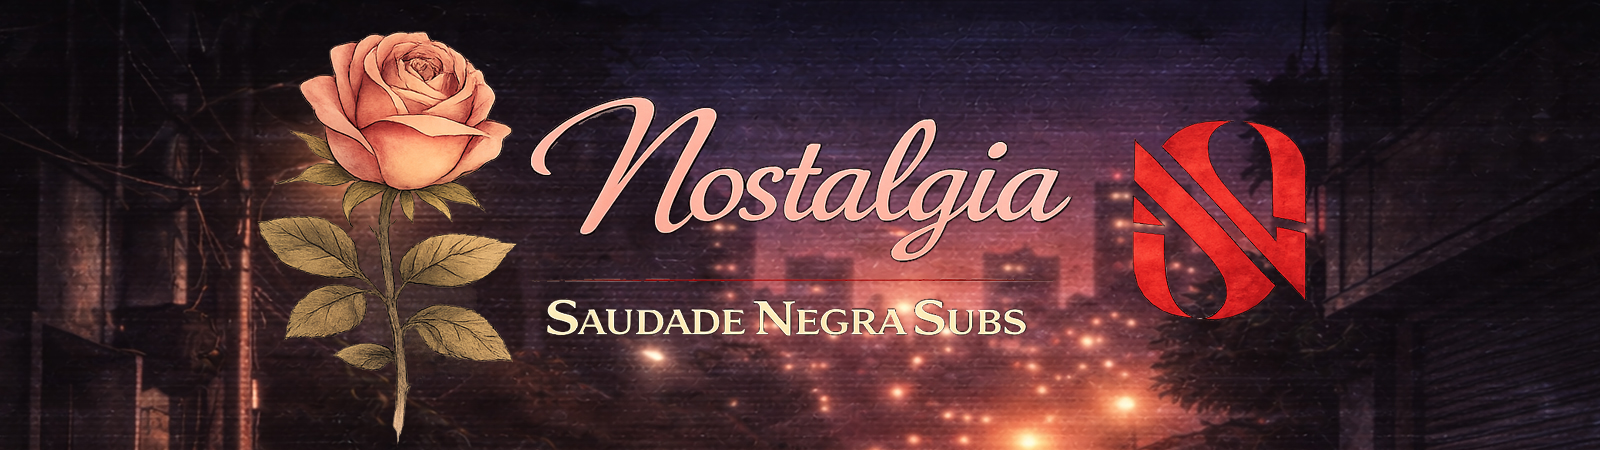
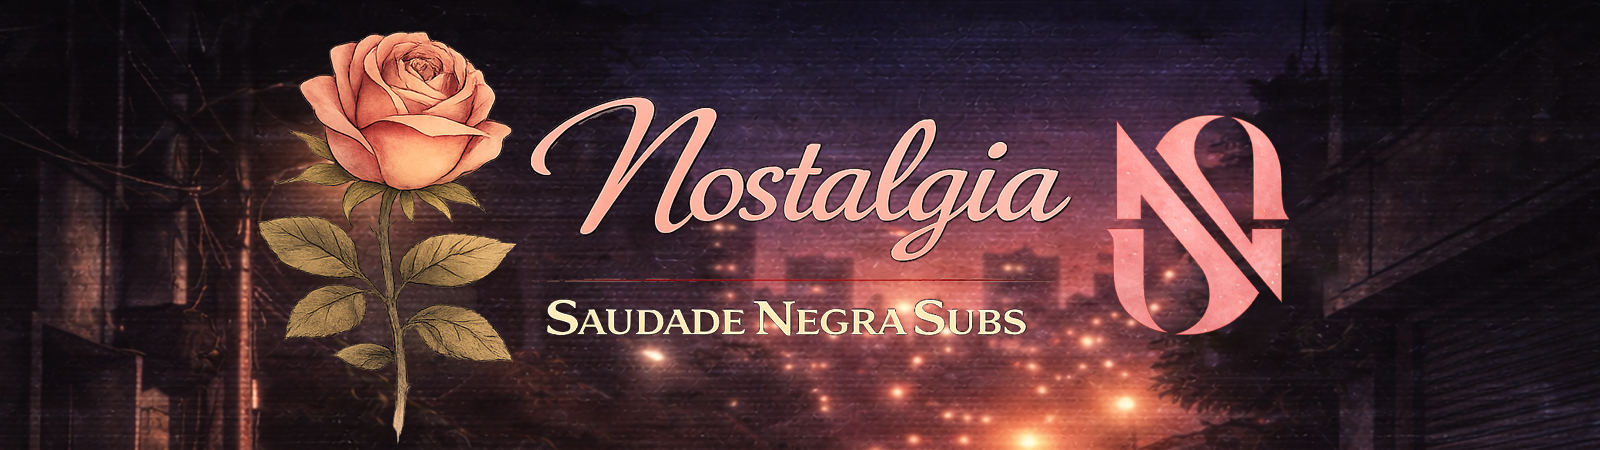
Add files via upload

Changed region(s): [[0.6562, 0.2489, 0.8438, 0.7467], [0.75, 0.7778, 0.7812, 0.8089]]

diff --git a/index.html b/index.html
@@ -3,7 +3,7 @@
 <head>
   <meta charset="UTF-8" />
   <meta name="viewport" content="width=device-width, initial-scale=1.0" />
-  <title>Saudade Negra Subs</title>
+  <title>Nostalgia - SNS</title>
   <link rel="icon" type="image/png" href="assetsN/favicon.png" />
 
   <!-- Cloudflare Web Analytics -->
@@ -46,30 +46,14 @@
       background-color: var(--bg);
     }
 
-	body::after {
-	  content: "";
-	  position: fixed;
-	  inset: 0;
-	  background-image: url('https://grainy-gradients.vercel.app/noise.svg');
-	  opacity: 0.12;
-	  pointer-events: none;
-	  z-index: 1;
-	}
-	
-	body::before {
-	  content: "";
-	  position: fixed;
-	  inset: 0;
-	  background: repeating-linear-gradient(
-	    to bottom,
-	    rgba(255,255,255,0.04),
-	    rgba(255,255,255,0.04) 1px,
-	    transparent 1px,
-	    transparent 3px
-	  );
-	  pointer-events: none;
-	  z-index: 1;
-	}
+    body::after {
+      content: "";
+      position: fixed;
+      inset: 0;
+      background: rgba(0, 0, 0, 0.14);
+      pointer-events: none;
+      z-index: 0;
+    }
 
     .page {
       position: relative;
@@ -109,6 +93,62 @@
 
     .banner-content {
       padding: 18px 22px 24px;
+    }
+	.about-banner {
+	  position: relative;
+	}
+	.about-banner:hover .banner-about {
+	  opacity: 1;
+    }
+	
+	.about-banner:hover .banner-about-scroll {
+      animation: scrollAbout 12s linear forwards;
+    }
+
+    @keyframes scrollAbout {
+      from {
+        transform: translateY(0);
+      }
+      to {
+        transform: translateY(0px);
+      }
+    }
+	
+    .banner-about {
+      position: absolute;
+      inset: 0;
+      overflow: hidden;
+      padding: 0
+      background: linear-gradient(180deg, rgba(0, 0, 0, 0.10), rgba(0, 0, 0, 0.92));
+      opacity: 0;
+      transition: opacity 0.25s ease;
+    }
+
+    .about-banner:hover .banner-about {
+      opacity: 1;
+    }
+
+    .banner-about-scroll {
+      position: absolute;
+	  top: 50%;
+      left: 18px;
+      right: 6px;
+	  transform: translateY(0);
+    }
+
+    .banner-about-text {
+      margin: 0 0 10px;
+      color: #ececec;
+      line-height: 1.55;
+      font-size: 0.95rem;
+      width: 100%;
+      max-width: none;
+      text-align: justify;
+      text-justify: inter-word;
+    }
+
+    .banner-about-text:last-child {
+      margin-bottom: 0;
     }
 
     .title {
@@ -379,6 +419,75 @@
     .green { color: var(--green); }
     .yellow { color: var(--yellow); }
     .red { color: var(--red); }
+	
+	.nostalgia-cta-logo {
+	  display: block;
+	  max-height: 72px;
+	  width: auto;
+	  margin: 12px auto;
+	}
+	
+	.nostalgia-cta {
+	  display: block;
+  	  width: min(900px, 100%);
+  	  margin: 8px auto 0;
+  	  min-height: 50px;
+  	  border-radius: 24px;
+  	  overflow: hidden;
+  	  text-decoration: none;
+  	  position: relative;
+  	  border: 1px solid rgba(255, 190, 210, 0.16);
+  	  box-shadow:
+        0 14px 40px rgba(0, 0, 0, 0.45),
+        0 0 18px rgba(255, 150, 190, 0.18),
+        0 0 34px rgba(255, 120, 170, 0.12);
+  	  background:
+        linear-gradient(rgba(16, 10, 18, 0.42), rgba(16, 10, 18, 0.58)),
+	  url('assetsN/sns-background.jpg') center center / cover no-repeat;
+      transition: transform 0.2s ease, box-shadow 0.2s ease, filter 0.2s ease;
+	}
+
+	.nostalgia-cta:hover {
+  	  transform: translateY(-2px);
+  	  box-shadow:
+        0 18px 46px rgba(0, 0, 0, 0.5),
+        0 0 24px rgba(255, 170, 205, 0.24),
+        0 0 42px rgba(255, 125, 180, 0.16);
+  	  filter: brightness(1.03);
+	}
+	
+	.nostalgia-cta-content {
+	  min-height: 50px;
+  	  display: flex;
+  	  flex-direction: column;
+  	  justify-content: center;
+  	  align-items: center;
+  	  gap: 0;
+  	  padding: 4px 12px;
+  	  text-align: center;
+	}
+
+	.nostalgia-cta-content img {
+  	  display: block;
+  	  max-height: 38px;
+  	  width: auto;
+	}
+
+	.nostalgia-cta-title {
+  	  font-size: 2rem;
+  	  line-height: 1;
+  	  font-weight: bold;
+  	  color: #f6c7d7;
+  	  text-shadow:
+        0 0 10px rgba(255, 185, 210, 0.22),
+        0 0 22px rgba(255, 150, 190, 0.12);
+    }
+
+	.nostalgia-cta-subtitle {
+	  font-size: 1rem;
+  	  color: #f3e5ed;
+  	  letter-spacing: 0.02em;
+	}
 
     @media (max-width: 720px) {
       .page {
@@ -405,22 +514,40 @@
 <body>
   <main class="page">
     <section class="hero">
-      <div class="banner">
-        <img src="assetsN/banner.png" alt="Banner da Saudade Negra Subs" />
+	  <div class="banner about-banner">
+	    <img src="assetsN/banner.jpg" alt="Banner da Nostalgia" />
+        <div class="banner-about">
+		  <div class="banner-about-scroll">
+            <h3 class="banner-about-title">Sobre nós</h3>
+            <p class="banner-about-text">
+            O <strong>Nostalgia</strong> é uma ramificação da Saudade Negra Subs dedicada a obras que vivem da memória, do estilo e do peso dos anos 80 e 90. Um espaço para clássicos, OVAs e séries que nos marcaram, preservadas com o mesmo cuidado, mas com uma identidade mais retro e melancólica.
+            </p>
+		  </div>
+		</div>
       </div>
-        <div class="telegram-content hidden-project">
-          <a class="telegram-link" href="https://t.me/SaudadeNegra" target="_blank" rel="noopener noreferrer">Entrar no grupo do Telegram</a>
+	  <a href="https://saudadenegra.pt" target="_blank" rel="noopener noreferrer" class="nostalgia-cta">
+	    <div class="nostalgia-cta-content">
+		  <img src="assetsN/sns-logo.png" alt="Banner da Saudade Negra Subs" />
         </div>
-      <div class="legend hidden-project" aria-label="Legenda do estado dos projectos">
+      </a>
+	  
+	  
+      <!--<div class="telegram-content">
+	    <a href="https://t.me/SaudadeNegra" target="_blank" rel="noopener noreferrer" class="nostalgia-cta">
+		<img src="assetsN/nostalgia-logo.png" alt="Nostalgia" class="nostalgia-cta-logo" />
+		</a>-->
+          <!--<a class="telegram-link" href="https://t.me/SaudadeNegra" target="_blank" rel="noopener noreferrer">Entrar no grupo do Telegram</a>
+      </div>-->
+     <!-- <div class="legend hidden-project" aria-label="Legenda do estado dos projectos">
         <span class="legend-item"><span class="legend-dot green"></span> Completo</span>
         <span class="legend-item"><span class="legend-dot yellow"></span> Em andamento</span>
         <span class="legend-item"><span class="legend-dot red"></span> Cancelado</span>
-      </div>
+      </div>-->
     </section>
 
     <section class="projects">
       <article class="project-card status-completo">
-        <img src="assetsN/gunsmith-cats.jpg" alt="Capa de Gunsmith Cats" />
+        <img src="assetsN/gunsmith-cats.jpg" alt="Gunsmith Cats" />
         <span class="status-badge">Completo</span>
         <div class="card-footer">
           <h2 class="card-title">Gunsmith Cats</h2>
@@ -433,6 +560,24 @@
             <span class="overlay-pill">Total: 3</span>
 			<span class="overlay-pill"><a href="https://1fichier.com/dir/xW5iaXCX" target="_blank" rel="noopener noreferrer" title="Podes continuar através do 1fichier."><img src="assetsN/1fichier.png" alt="1fichier" /></a></span>
 			<span class="overlay-pill"><a href="https://t.me/SaudadeNegra/11/12" target="_blank" rel="noopener noreferrer" title="Podes continuar através do Telegram."><img src="assetsN/telegram.png" alt="telegram" /></a></span>
+          </div>
+        </div>
+      </article>
+
+      <article class="project-card status-andamento hidden-project">
+        <img src="assetsN/shigurui.jpg" alt="Capa de Shigurui: Death Frenzy" />
+        <span class="status-badge">Em andamento</span>
+        <div class="card-footer">
+          <h2 class="card-title">Shigurui: Death Frenzy</h2>
+        </div>
+        <div class="card-overlay">
+          <h3 class="overlay-title">Shigurui: Death Frenzy</h3>
+          <p class="overlay-synopsis">Japão feudal e começa com um torneio ordenado por Tokugawa Tadanaga, onde, ao contrário do habitual, os combates são feitos com espadas reais.
+            Fujiki Gennosuke, um espadachim sem um braço, e Irako Seigen, um samurai cego, ambos ligados à escola de Iwamoto Kogan.
+            A série recua depois no tempo para mostrar como os dois chegaram àquele confronto, num ambiente marcado por violência extrema, obsessão, honra deformada e decadência moral.</p>
+          <div class="overlay-meta">
+            <span class="overlay-pill">Lançados: 0</span>
+            <span class="overlay-pill">Total: 12</span>
           </div>
         </div>
       </article>
